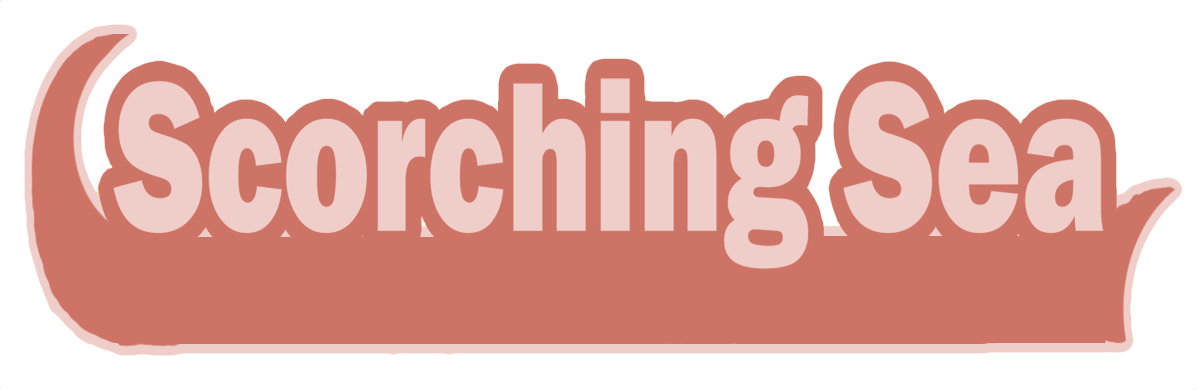
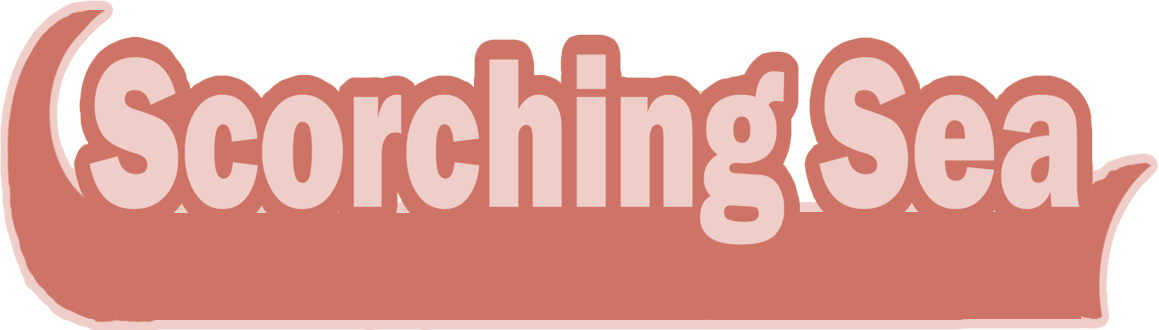
Added header pictures to each project

diff --git a/games.html b/games.html
@@ -60,12 +60,12 @@
 		    <div id="container">  
 		      <div id ="main-2">
 				<div id="text-container">
-					<a href="games/project_perfect_citizen.html"><img src="games/project_perfect_citizen/PPC_Title.png" alt="Project Perfect Citizen" width="500"></a>
+					<a href="games/project_perfect_citizen.html"><img src="games/project_perfect_citizen/PPC_Title.png" alt="Project Perfect Citizen" width="400" vspace="10"></a>
 					<p>September 2015 - Now</p>
  					<p>C++, SFML, XCode</p>
 					<a href="games/project_perfect_citizen.html"><img src="games/project_perfect_citizen/ppc_1.png" alt="Project Perfect Citizen" width="500"></a>
 					<hr>
-					<a href="games/EoBS.html"><img src="games/EoBS/EoBS_Title.png" alt="Eye on Baby Sequoia" width="500"></a>
+					<a href="games/EoBS.html"><img src="games/EoBS/EoBS_Title.png" alt="Eye on Baby Sequoia" width="400" vspace="10"></a>
 					<p>September - November 2015</p>
  					<p>C#, Unity, Blender</p>
 					<a href="games/EoBS.html"><img src="games/EoBS/EoBS3_Small.png" alt="Eye on Baby Sequoia" width="500"></a>
@@ -75,12 +75,12 @@
 					<p>C#, Unity, Blender</p>
 					<a href="games/SummerProject.html"><img src="games/SP/SummerProject6_Small.png" alt="200 Days" width="500"></a>
 					<hr>
-					<a href="games/SS.html"><img src="games/SS/SS_Title.png" alt="Scorching Sea" width="500"></a>
+					<a href="games/SS.html"><img src="games/SS/SS_Title.png" alt="Scorching Sea" width="400" vspace="10"></a>
 					<p>January - March 2015</p>
 					<p>Javascript, HTML, CSS</p>
 					<a href="games/SS.html"><img src="games/SS/SS1Small.png" alt="Scorching Sea" width="500"></a>
 					<hr>
-					<a href="games/SB.html"><img src="games/SB/SB_Title.png" alt="Shadow Boxer" width="500"></a>
+					<a href="games/SB.html"><img src="games/SB/SB_Title.png" alt="Shadow Boxer" width="400" vspace="10"></a>
 					<p>April - June 2014</p>
 					<p>Game Maker Language</p>
 					<a href="games/SB.html"><img src="games/SB/SB1_Small.png" alt="Shadow Boxer" width="500"></a>

diff --git a/games/SS.html b/games/SS.html
@@ -35,7 +35,7 @@
 
   		<center>	
 		    <div id= "header">
-		      	<h1>Scorching Sea</h1>
+		      	<img src="SS/SS_Title.png" alt="Scorching Sea" height="28" vspace="4">
 		    </div>
     	</center>
 
@@ -65,7 +65,6 @@
 						<p>By Brandon Gomez, Eron Lake, Antony Robbins, and Darion Toney</p>
 						<p align="left">An isometric, real-time, Oregon Trail-like game set in the post apocalyptic future where water is a scarcity.</p>
 						<p align="left">Role: Our team decided not to use an engine so I made the engine from scratch. In addition, I programmed the transformation of the world in order to give the game an isometric view and I programmed the resource management so the game can be efficient. I also made the art direction and created some sprites. I also implmented the draw battle system, the simple ai. and the statistical elements of the game like water and health.</p>
-\						<br> </br>
 						<a href="SS/SS1.png"><img src="SS/SS1Small.png" alt="Scorching Sea"></a>
 						<br> </br>  
 						<a href="SS/SS2.png"><img src="SS/SS2Small.png" alt="Scorching Sea"></a>

diff --git a/other.html b/other.html
@@ -65,7 +65,7 @@
 						<p>Android Studio, Java, Firebase, Google Maps</p>
 						<a href="other/Overheards.html"><img src="other/Overheards/Overheards2_Small.png" alt="Overheards"></a>
 						<hr>
-						<a href="other/online_dnd.html"><img src="other/online_dnd/ODnD_Title.png" alt="Online Dnd" width="500"></a>
+						<a href="other/online_dnd.html"><img src="other/online_dnd/ODnD_Title.png" alt="Online Dnd" width="400" vspace="10"></a>
 						<p>January - March 2016</p>
 						<p>Web2py, Javascript, HTML, CSS, jQuery, Ajax</p>
 						<a href="other/online_dnd.html"><img src="other/online_dnd/online_dnd_1_small.png" alt="Online DnD" width="500"></a>

diff --git a/games/project_perfect_citizen.html b/games/project_perfect_citizen.html
@@ -35,7 +35,7 @@
 
   		<center>	
 		    <div id= "header">
-		      	<h1>Project Perfect Citizen</h1>
+				<img src="project_perfect_citizen/PPC_Title.png" alt="Project Perfect Citizen" height="28" vspace="4">
 		    </div>
     	</center>
 

diff --git a/games/EoBS.html b/games/EoBS.html
@@ -35,7 +35,7 @@
 
   		<center>	
 		    <div id= "header">
-		      	<h1>Eye on Baby Sequoia</h1>
+		      	<img src="EoBS/EoBS_Title.png" alt="Eye on Baby Sequoia" height="28" vspace="4"></a>
 		    </div>
     	</center>
 

diff --git a/other/online_dnd.html b/other/online_dnd.html
@@ -35,7 +35,7 @@
 
   		<center>	
 		    <div id= "header">
-		      	<h1>Online DnD</h1>
+		      	<img src="online_dnd/ODnD_Title.png" alt="Online Dnd" height="28" vspace="4">
 		    </div>
     	</center>
 

diff --git a/games/SB.html b/games/SB.html
@@ -35,7 +35,7 @@
 
   		<center>	
 		    <div id= "header">
-		      	<h1>Shadow Boxer</h1>
+		      	<img src="SB/SB_Title.png" alt="Shadow Boxer" height="28" vspace="4">
 		    </div>
     	</center>
 
